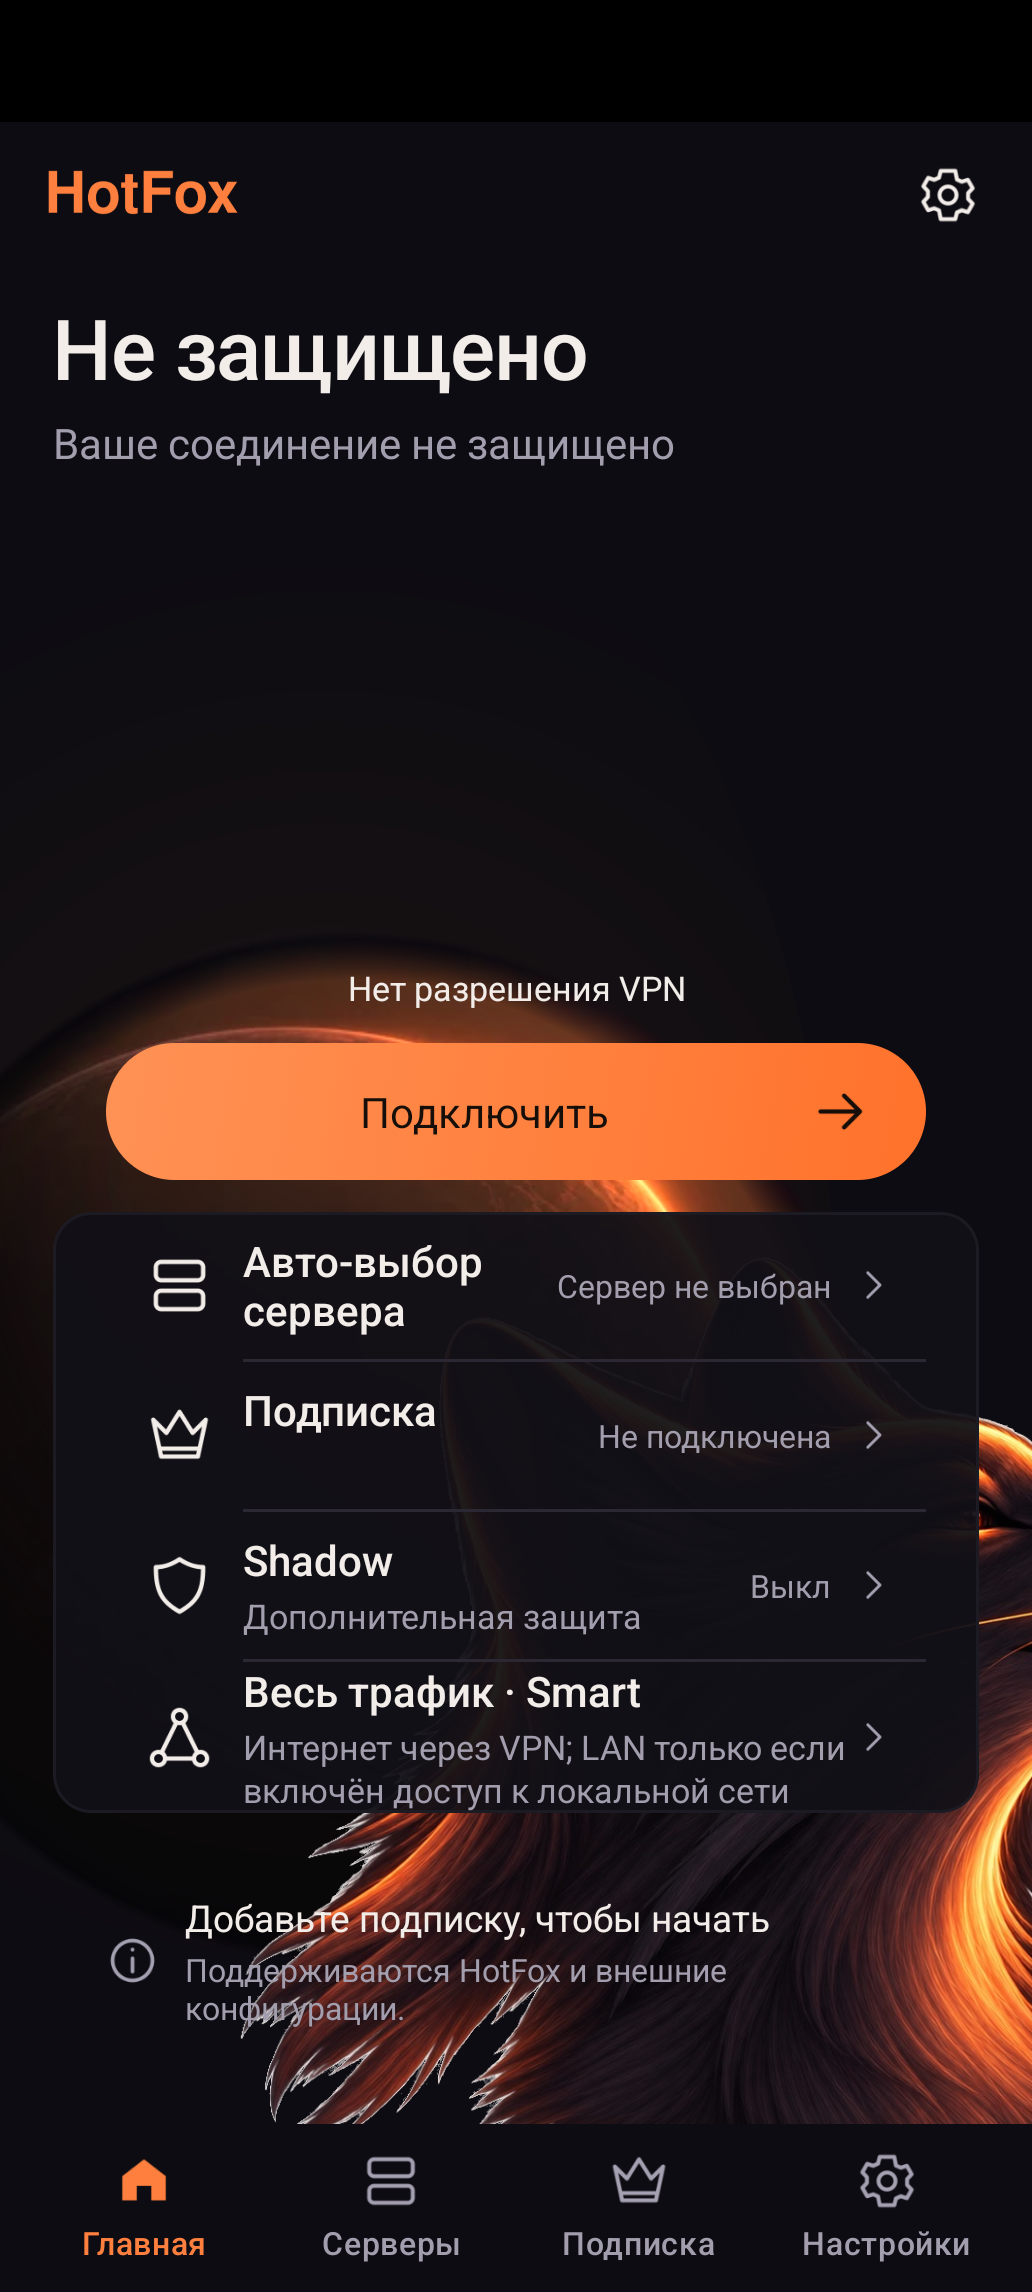
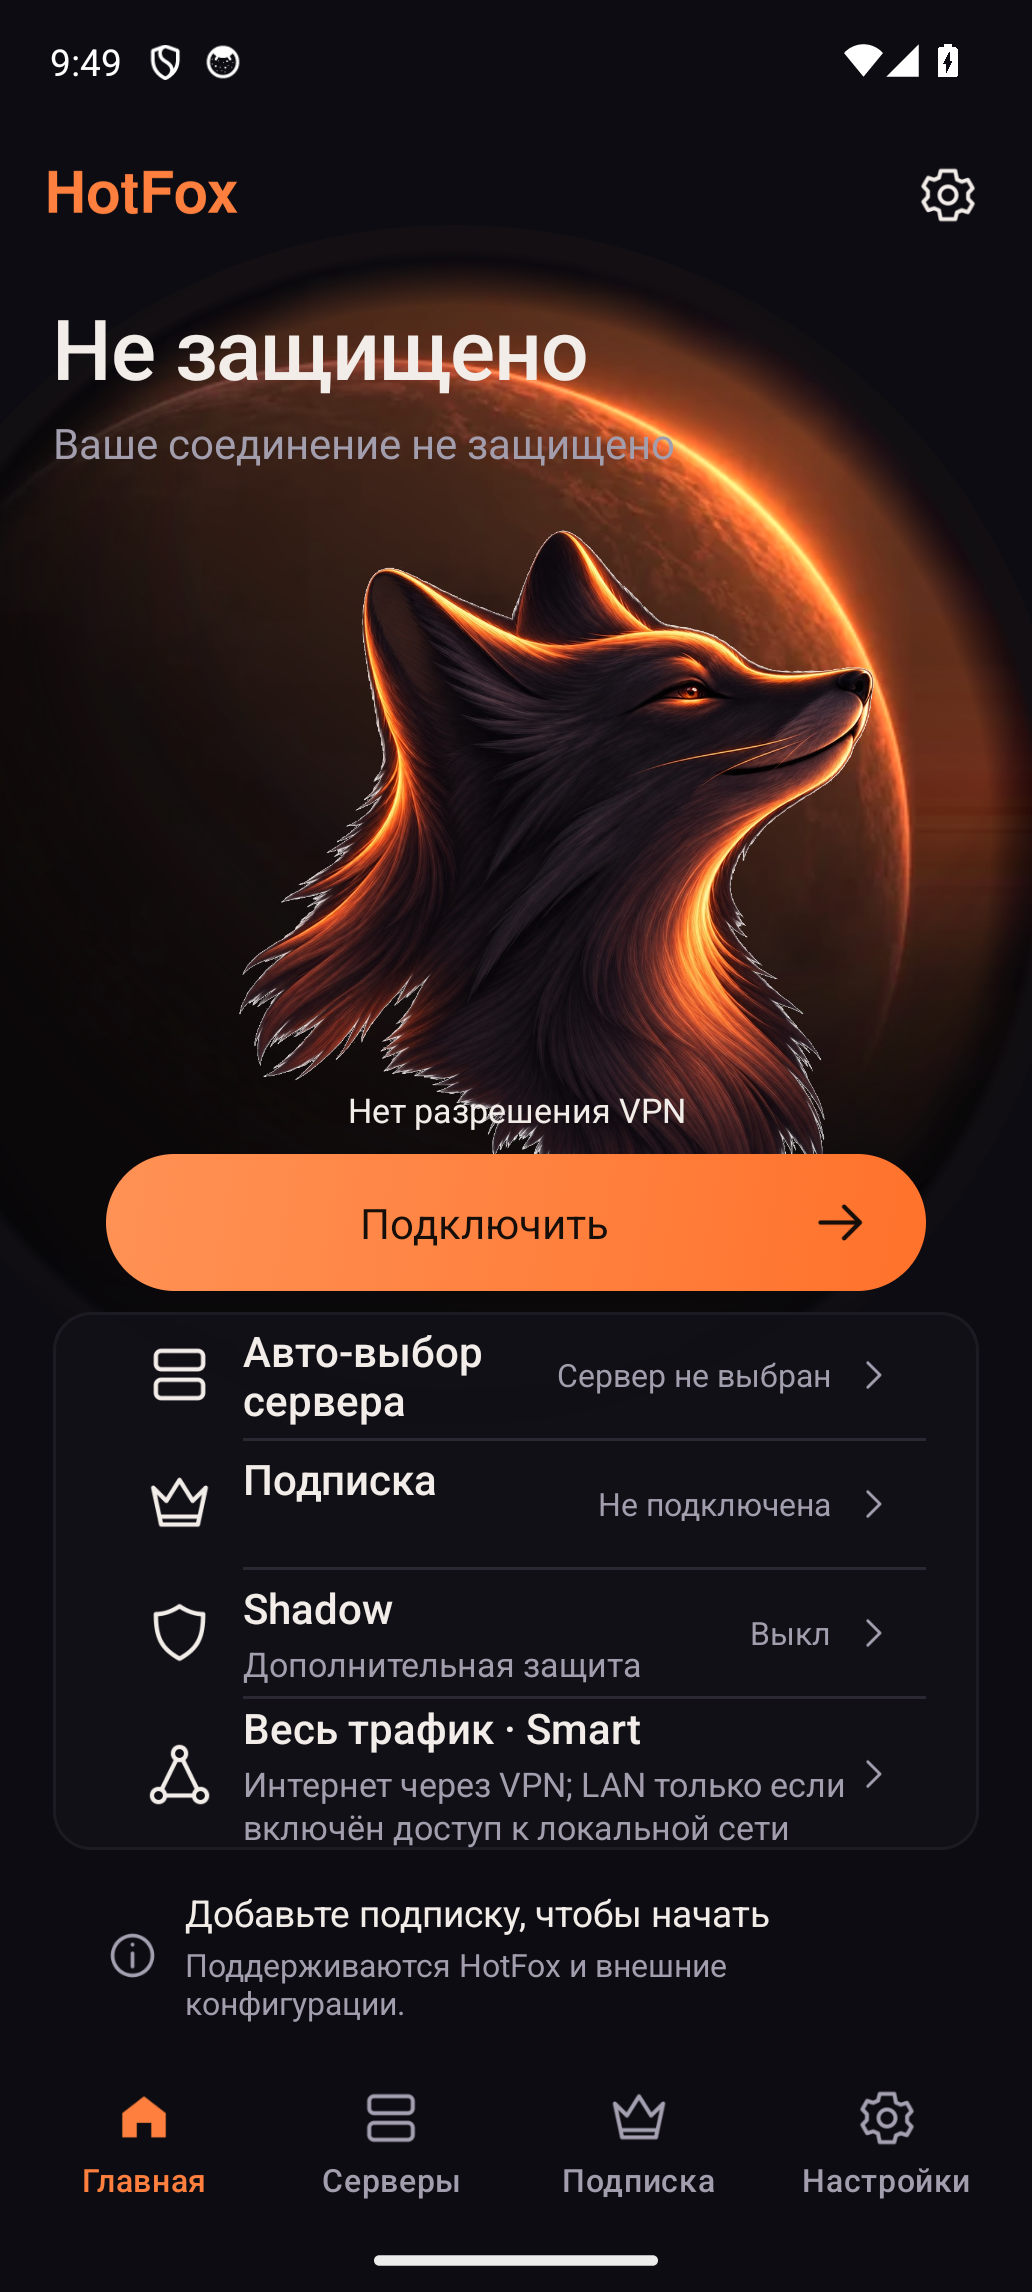
ui(hero): pin fox ImageView to center-based onLayout geometry
FIT_CENTER inside a match_parent ImageView ignored LayoutParams and
placed the bitmap in leftover space, so the face sat behind CTA/cards.
Measure and layout glow/planet/fox in onLayout from HomeHeroGeometry
screen fractions, keep wrap_content layers, and recapture disconnected.

diff --git a/bootstrap/hotfox_2_2_0/app/src/main/java/com/v2ray/ang/ui/HotFoxHeroArtwork.kt b/bootstrap/hotfox_2_2_0/app/src/main/java/com/v2ray/ang/ui/HotFoxHeroArtwork.kt
@@ -5,7 +5,6 @@ import android.animation.ObjectAnimator
 import android.animation.ValueAnimator
 import android.content.Context
 import android.util.AttributeSet
-import android.view.Gravity
 import android.view.View
 import android.view.animation.AccelerateDecelerateInterpolator
 import android.widget.FrameLayout
@@ -47,11 +46,6 @@ open class HotFoxHeroArtwork @JvmOverloads constructor(
     private var breath: AnimatorSet? = null
     private var insetTopPx = 0
     private var insetBottomPx = 0
-    private var lastW = 0
-    private var lastH = 0
-    private var lastMode: HotFoxHeroMode? = null
-    private var lastInsetTop = -1
-    private var lastInsetBottom = -1
 
     init {
         clipChildren = false
@@ -104,7 +98,7 @@ open class HotFoxHeroArtwork @JvmOverloads constructor(
             )
             insetTopPx = bars.top
             insetBottomPx = bars.bottom
-            applyComposition(force = true)
+            requestLayout()
             insets
         }
     }
@@ -112,7 +106,7 @@ open class HotFoxHeroArtwork @JvmOverloads constructor(
     fun setMode(next: HotFoxHeroMode) {
         if (mode == next) return
         mode = next
-        applyComposition(force = true)
+        requestLayout()
     }
 
     fun setVariant(next: HotfoxHeroComposition.Variant) {
@@ -142,14 +136,14 @@ open class HotFoxHeroArtwork @JvmOverloads constructor(
 
     override fun onSizeChanged(w: Int, h: Int, oldw: Int, oldh: Int) {
         super.onSizeChanged(w, h, oldw, oldh)
-        applyComposition()
+        requestLayout()
     }
 
     override fun onAttachedToWindow() {
         super.onAttachedToWindow()
-        applyComposition(force = true)
         restartBreath()
         requestApplyInsets()
+        requestLayout()
     }
 
     override fun onDetachedFromWindow() {
@@ -161,96 +155,74 @@ open class HotFoxHeroArtwork @JvmOverloads constructor(
         super.onDetachedFromWindow()
     }
 
-    private fun applyComposition(force: Boolean = false) {
-        val w = width
-        val h = height
+    override fun onLayout(changed: Boolean, left: Int, top: Int, right: Int, bottom: Int) {
+        layoutHero(right - left, bottom - top)
+    }
+
+    private fun layoutHero(w: Int, h: Int) {
         if (w < 2 || h < 2) return
-        val insetTop = insetTopPx.toFloat()
-        val insetBottom = paddingBottom.toFloat()
-        if (
-            !force &&
-            w == lastW &&
-            h == lastH &&
-            mode == lastMode &&
-            insetTopPx == lastInsetTop &&
-            insetBottomPx == lastInsetBottom
-        ) {
-            return
-        }
         val wf = w.toFloat()
         val hf = h.toFloat()
+        val loc = IntArray(2)
+        getLocationOnScreen(loc)
+        val screenW = resources.displayMetrics.widthPixels.toFloat().coerceAtLeast(wf)
+        val screenH = resources.displayMetrics.heightPixels.toFloat().coerceAtLeast(hf)
         val planetDrawable = planet.drawable
         val dw = planetDrawable?.intrinsicWidth?.toFloat()?.takeIf { it > 0f } ?: 1024f
         val dh = planetDrawable?.intrinsicHeight?.toFloat()?.takeIf { it > 0f } ?: 1024f
-        val planetLayout = HotfoxHeroComposition.planet(
-            wf, hf, dw, dh, mode, insetTop, insetBottom,
-        )
-        layoutLayer(
-            planet,
-            planetLayout.diameter.toInt().coerceAtLeast(1),
-            planetLayout.diameter.toInt().coerceAtLeast(1),
-            planetLayout.left,
-            planetLayout.top,
-        )
+        val planetLayout = HotfoxHeroComposition.planet(screenW, screenH, dw, dh, mode)
         planet.alpha = planetLayout.alpha
         planet.scaleType = ImageView.ScaleType.FIT_CENTER
+        val pd = planetLayout.diameter.toInt().coerceAtLeast(1)
+        place(planet, planetLayout.left - loc[0], planetLayout.top - loc[1], pd, pd)
 
-        val glowLayout = HotfoxHeroComposition.glow(wf, hf, mode, insetTop, insetBottom)
-        layoutLayer(glow, glowLayout.diameter, glowLayout.diameter, glowLayout.left, glowLayout.top)
+        val glowLayout = HotfoxHeroComposition.glow(screenW, screenH, mode)
         glow.alpha = glowLayout.alpha
+        place(
+            glow,
+            glowLayout.left - loc[0],
+            glowLayout.top - loc[1],
+            glowLayout.diameter,
+            glowLayout.diameter,
+        )
 
         val foxDrawable = fox.drawable
         val foxDw = foxDrawable?.intrinsicWidth?.toFloat()?.takeIf { it > 0f }
             ?: HotfoxHeroComposition.FOX_INTRINSIC_WIDTH
         val foxDh = foxDrawable?.intrinsicHeight?.toFloat()?.takeIf { it > 0f }
             ?: HotfoxHeroComposition.FOX_INTRINSIC_HEIGHT
-        val foxLayout = HotfoxHeroComposition.fox(
-            wf, hf, mode, insetTop, insetBottom, foxDw, foxDh,
-        )
+        val foxLayout = HotfoxHeroComposition.fox(screenW, screenH, mode, drawableW = foxDw, drawableH = foxDh)
         fox.setPadding(0, 0, 0, 0)
         fox.scaleType = ImageView.ScaleType.FIT_CENTER
         fox.adjustViewBounds = false
-        layoutLayer(fox, foxLayout.widthPx, foxLayout.heightPx, foxLayout.left, foxLayout.top)
+        place(
+            fox,
+            foxLayout.left - loc[0],
+            foxLayout.top - loc[1],
+            foxLayout.widthPx,
+            foxLayout.heightPx,
+        )
 
         val blendH = if (HotfoxHeroComposition.isHome(mode)) {
             (h * 0.48f).toInt().coerceAtLeast(1)
         } else {
             (h * 0.42f).toInt().coerceAtLeast(1)
         }
-        val blendLp = blendBottom.layoutParams as LayoutParams
-        blendLp.width = LayoutParams.MATCH_PARENT
-        blendLp.height = blendH
-        blendLp.gravity = Gravity.BOTTOM
-        blendBottom.layoutParams = blendLp
-        blendBottom.bringToFront()
-
+        place(blendBottom, 0, h - blendH, w, blendH)
         val navH = (h * 0.12f).toInt().coerceAtLeast(1)
-        val navLp = navScrim.layoutParams as LayoutParams
-        navLp.width = LayoutParams.MATCH_PARENT
-        navLp.height = navH
-        navLp.gravity = Gravity.BOTTOM
-        navScrim.layoutParams = navLp
-        navScrim.bringToFront()
-
-        lastW = w
-        lastH = h
-        lastMode = mode
-        lastInsetTop = insetTopPx
-        lastInsetBottom = insetBottomPx
+        place(navScrim, 0, h - navH, w, navH)
     }
 
-    private fun layoutLayer(view: View, widthPx: Int, heightPx: Int, left: Int, top: Int) {
-        val lp = view.layoutParams as LayoutParams
-        lp.width = widthPx
-        lp.height = heightPx
-        lp.gravity = Gravity.TOP or Gravity.START
-        lp.leftMargin = 0
-        lp.rightMargin = 0
-        lp.marginStart = left
-        lp.marginEnd = 0
-        lp.topMargin = top
-        lp.bottomMargin = 0
-        view.layoutParams = lp
+    private fun place(view: View, x: Int, y: Int, widthPx: Int, heightPx: Int) {
+        val vw = widthPx.coerceAtLeast(1)
+        val vh = heightPx.coerceAtLeast(1)
+        view.measure(
+            MeasureSpec.makeMeasureSpec(vw, MeasureSpec.EXACTLY),
+            MeasureSpec.makeMeasureSpec(vh, MeasureSpec.EXACTLY),
+        )
+        view.layout(x, y, x + vw, y + vh)
+        view.translationX = 0f
+        view.translationY = 0f
     }
 
     private fun restartBreath() {
